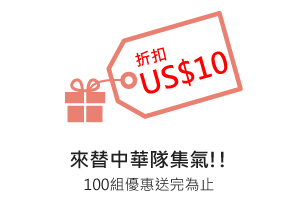
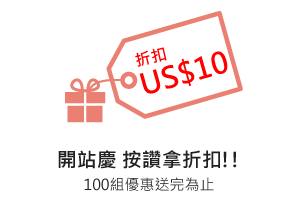
增加刷卡到期日格式提示 更換首頁活動圖片

Changed region(s): [[0.18, 0.7282, 0.81, 0.8155]]

diff --git a/checkout/checkout.html b/checkout/checkout.html
@@ -21,7 +21,7 @@
     </tr>
     <tr>
         <td>到期日(月年共4碼)</td>
-        <td><input type="text" value="" id="expiry_date" maxlength="4"></td>
+        <td><input type="text" value="" id="expiry_date" maxlength="4"><font color="grey">(mmyy)</font></td>
     </tr>
     <tr>
         <td>CVC(卡片背面後3碼)</td>
